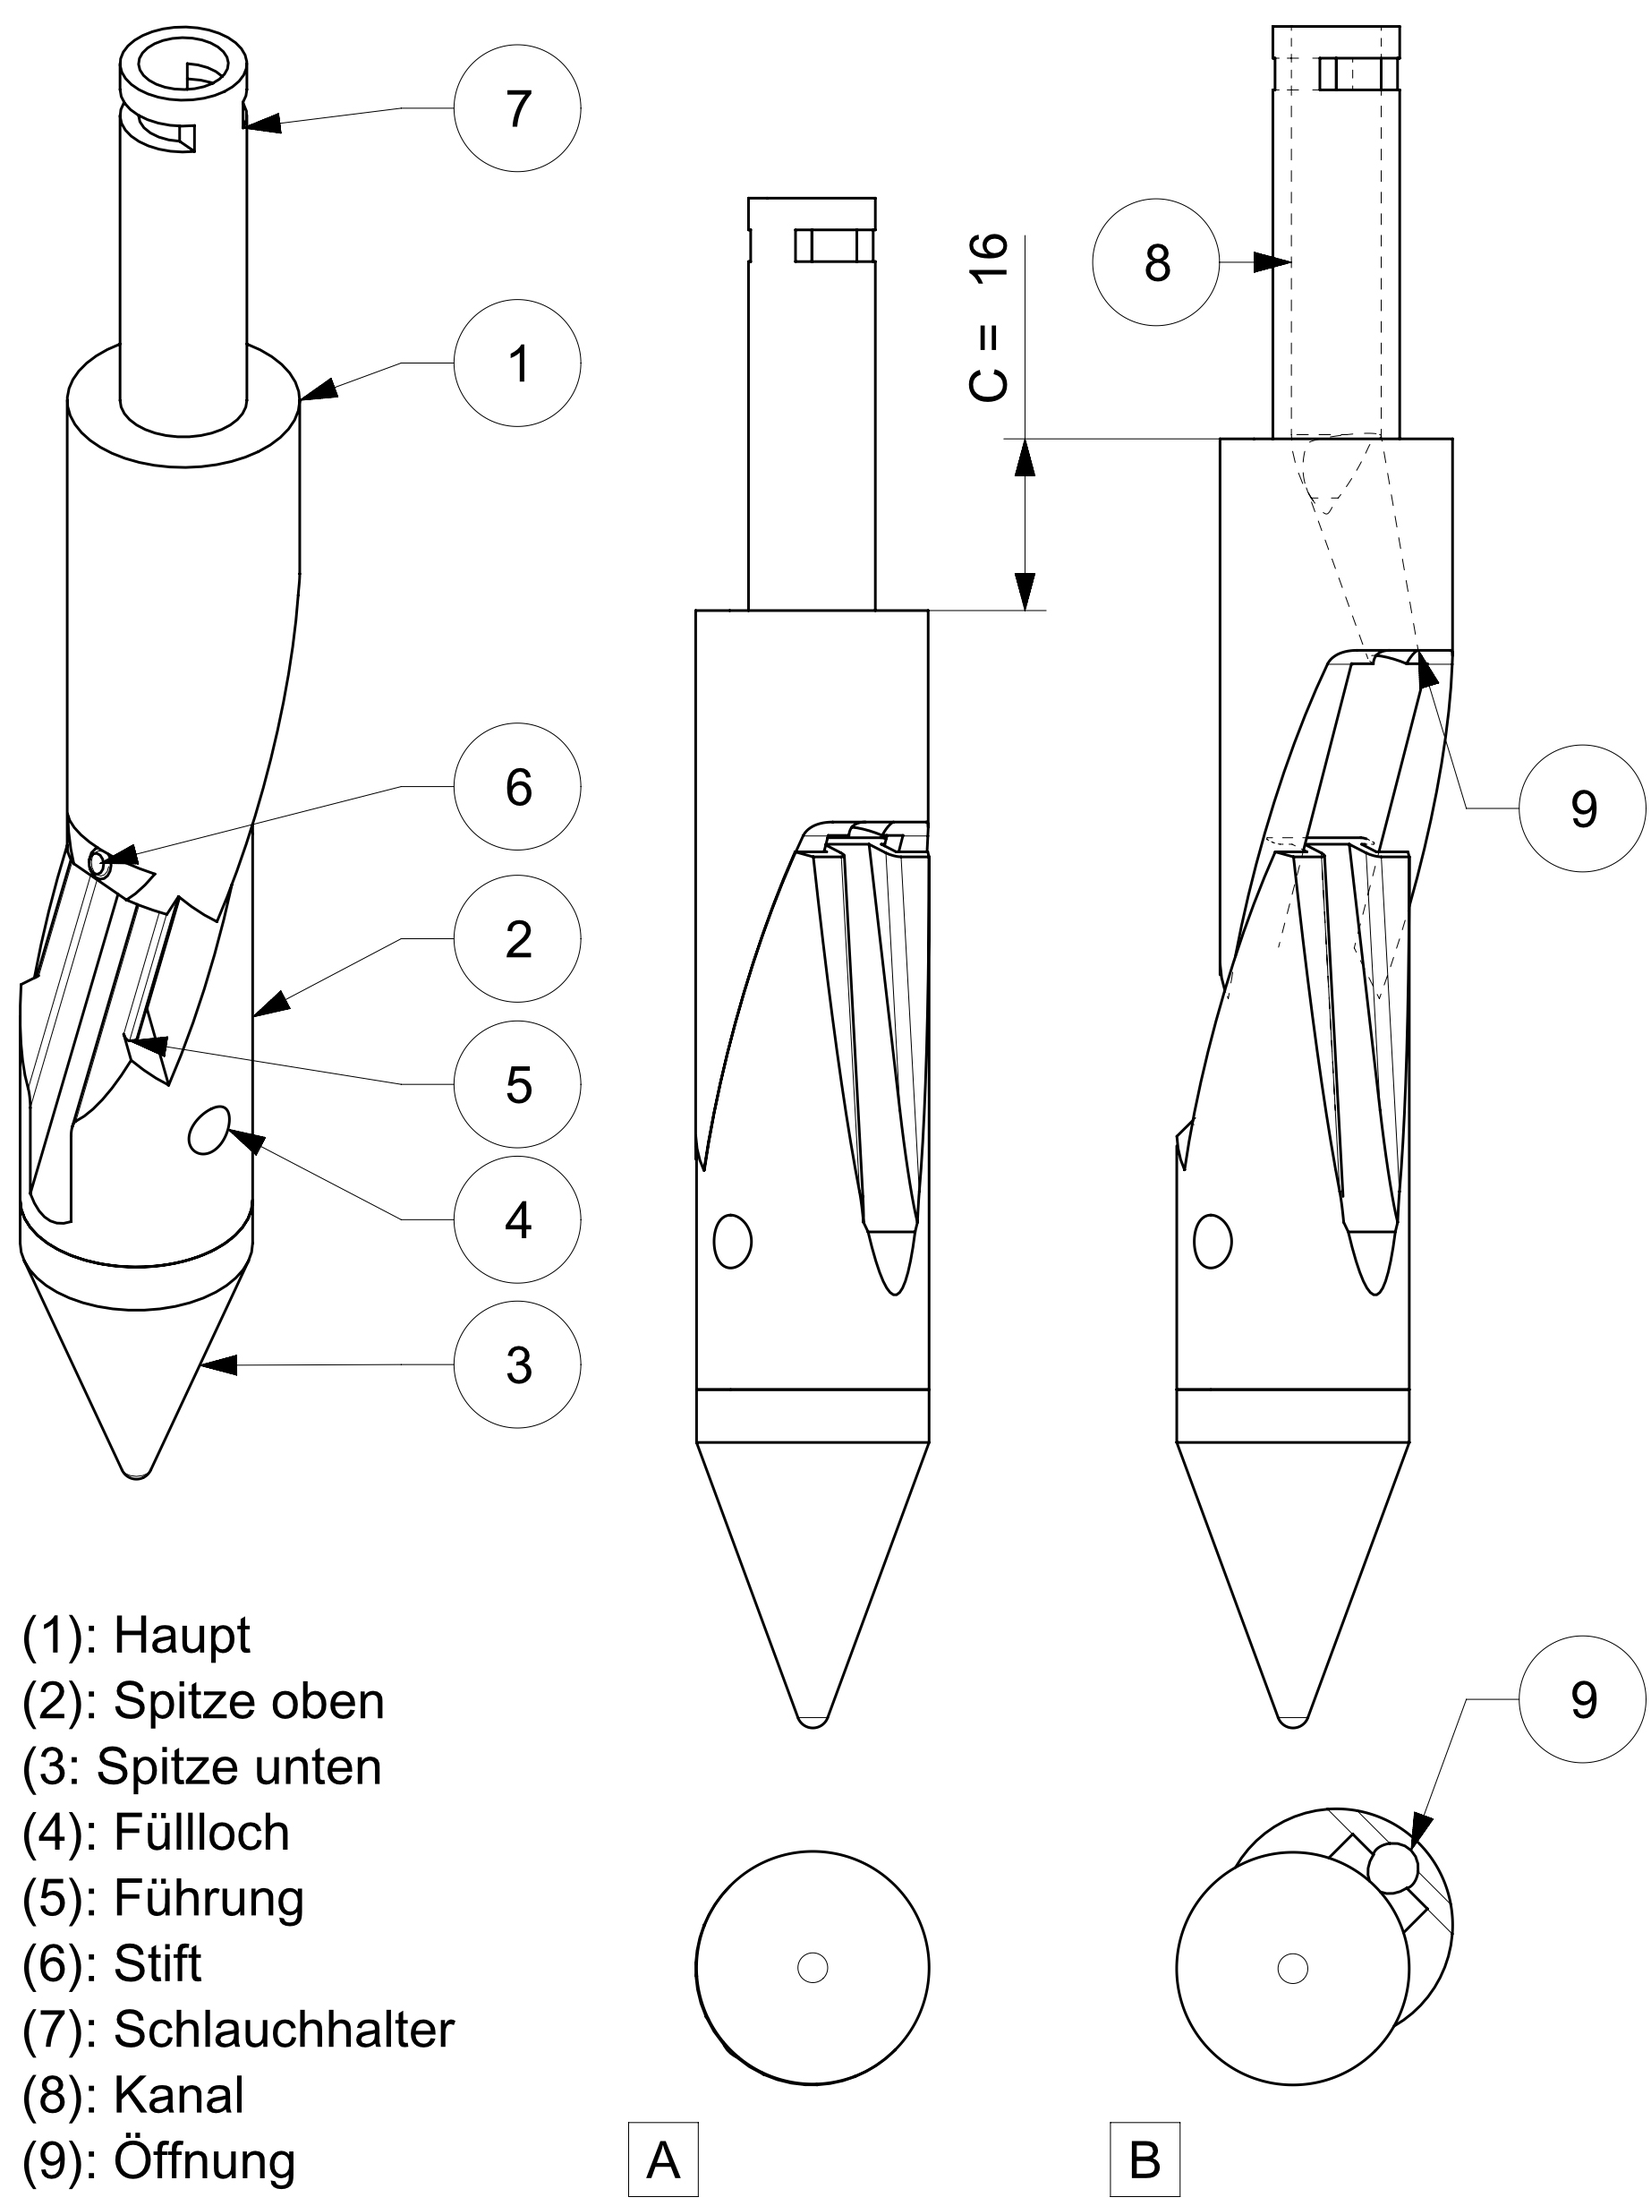
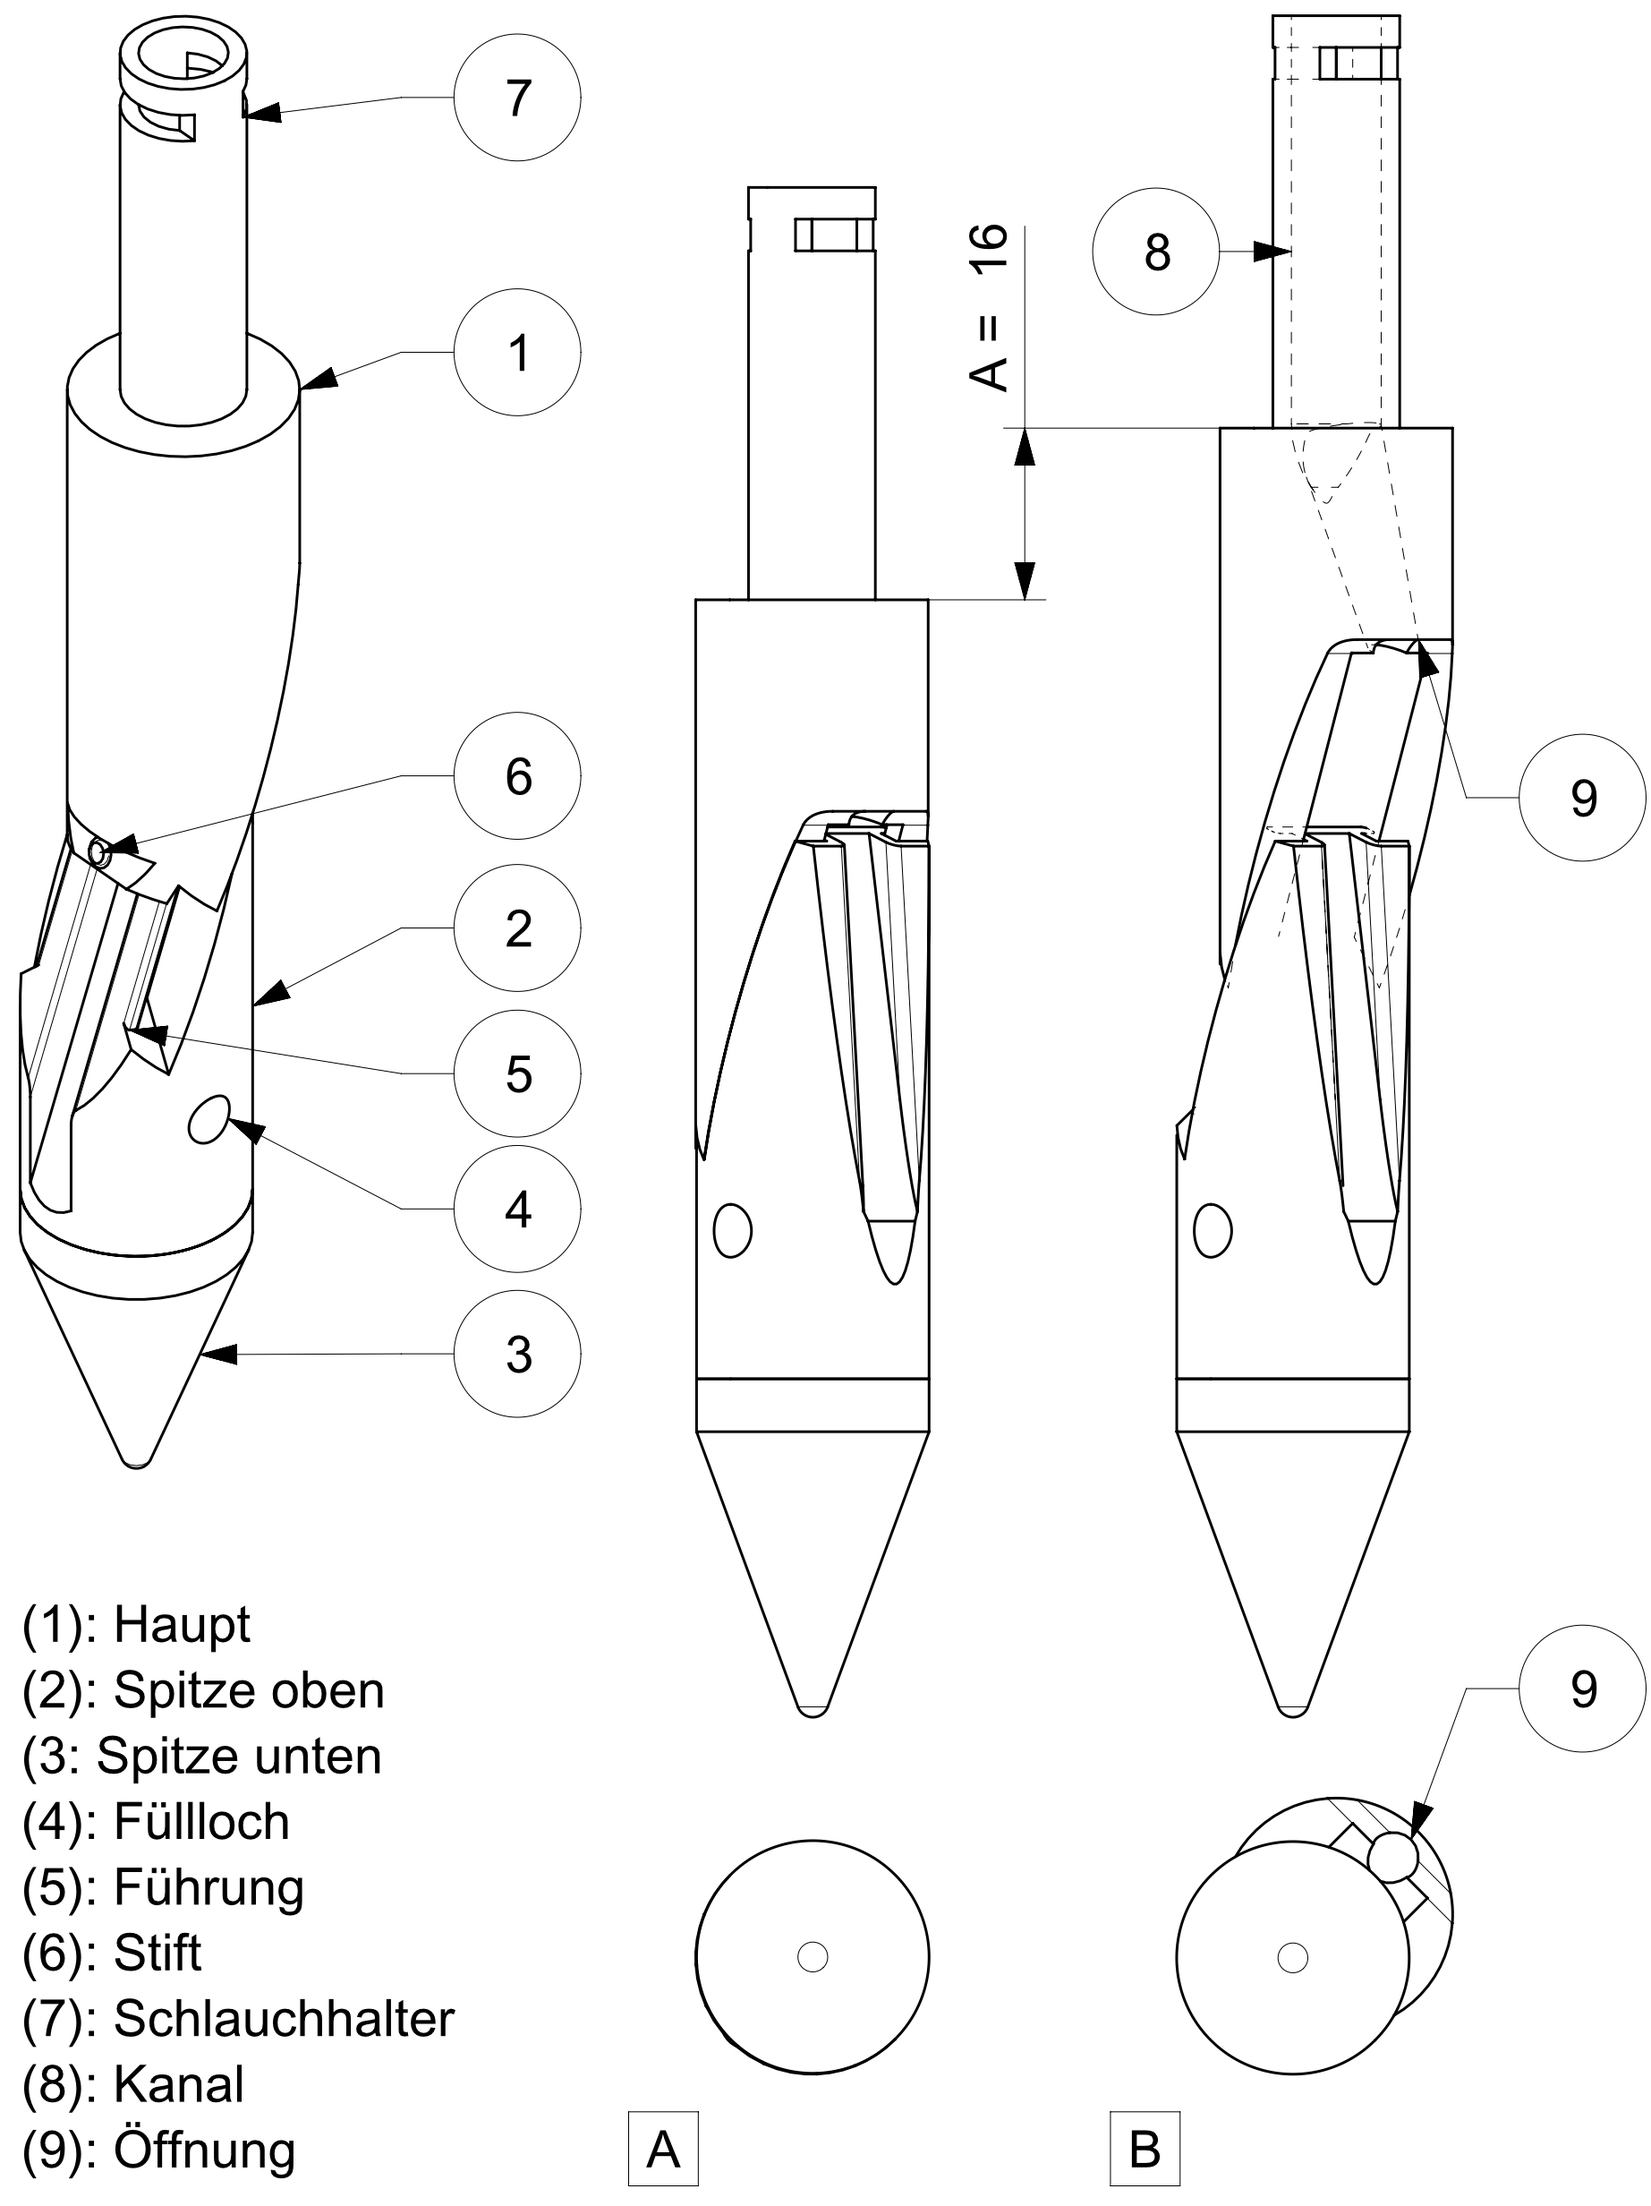
- edited text and pictures of subsection Stechdorn

diff --git a/Kapitel/6_Umsetzung/6.6_Stechdorn.tex b/Kapitel/6_Umsetzung/6.6_Stechdorn.tex
@@ -3,7 +3,7 @@
 \textbf{Aufbau}
 Der Stechdorn hat die Aufgabe, ein Setzloch durch Verdrängung der Topferde auszuheben und anschliessend die fallenden NemaCaps ins Setzloch zu leiten. Dafür wurde auf einen gelochten Stechdorn bewusst verzichtet, da man das Risiko von Verstopfungen nicht eingehen möchte. Mit der realisierten Konstruktion wird dieses Risiko eliminiert. 
 \newline
-Der Stechdorn besteht aus mehreren Teilen, wobei diese über eine lineare Führung (Punkt 5 in Abbildung \ref{fig:details_stechdorn}) verbunden sind. Dabei wird das Haupt (1) an der Verstellmechanik montiert und macht so die Translation der Setzeinheit mit. Sobald der untere Teil (2, 3) in die Topferde einsticht, fährt die Spitze an den oberen Anschlag der Führung (Detail A). Sobald die Setzeinheit nach oben fährt, öffnet sich die Spitze wieder und das NemaCaps kann durch den Kanal (8) ins ausgehobene Setzloch fallen (Detail B). Dabei soll die Bewegung nur durch die Gewichts- sowie Trägheitskraft der Spitze ausgelöst werden.
+Der Stechdorn besteht aus mehreren Teilen, wobei diese über eine lineare Führung (Punkt 5 in Abbildung \ref{fig:details_stechdorn}) verbunden sind. Dabei wird das Haupt (1) an der Verstellmechanik montiert und macht so die Translation der Setzeinheit mit. Sobald der untere Teil (2, 3) in die Topferde einsticht, fährt die Spitze an den oberen Anschlag der Führung (Detail A). Sobald die Setzeinheit nach oben fährt, öffnet sich die Spitze wieder und das NemaCaps kann durch den Kanal (8) ins ausgehobene Setzloch fallen (Detail B). Dabei soll die Bewegung nur durch die Gewichts- sowie Trägheitskraft der Spitze ausgelöst werden. Falls die Spitze zu leicht ist um sich durch die Bewegung zo öffnen, ist in der Spitze ein Hohlraum vorgesehen, welcher mit Bleikugeln gefüllt wird. Dafür ist ein Füllloch (4) vorgesehen, dass mit einer Madenschraube M6 verschlossen wird.
 \newline
 Folgende Überlegungen geben die Lage der linearen Führung vor:
 \begin{itemize}
@@ -11,14 +11,26 @@ Folgende Überlegungen geben die Lage der linearen Führung vor:
 	
 	\item Wiederum muss eine seitliche Öffnung der Spitze soweit geschehen, dass die Öffnung (9) frei über dem Setzloch steht (Detail B) und ein freier Fall des NemaCaps möglich ist.
 	
-	\item Die Verschliessung der Spitze ist in vertikaler Richtung beschränkt durch die Auslegung Spindel. Dabei ist der Abstand C in den Berechnungen mit 15mm angenommen.
+	\item Die Verschliessung der Spitze ist in vertikaler Richtung beschränkt durch die Auslegung Spindel. Dabei ist der Abstand A in den Berechnungen (Siehe Anhang \textbf{XY}) mit 15mm angenommen. Die Umsetzung überschreitet diese Annahme um 1mm, ist jedoch im angenommenen Rahmen.
 \end{itemize}
+
 	\begin{figure}[H]
-	\includegraphics[scale=0.92]{Illustrationen/6-Umsetzung/details_stechdorn.jpg}
+	\includegraphics[scale=1.0]{Illustrationen/6-Umsetzung/details_stechdorn.jpg}
 	\caption{Übersicht des Stechdorns}
 	\label{fig:details_stechdorn}
 	\end{figure}
-
+\textbf{Haupt}
+\newline
+Das Haupt des Stechdorns nimmt neben der linearen Führung der Spitze noch folgende Aufgaben wahr:
+\begin{itemize}
+	\item Es verbindet den Schlauch mit dem Stechdorn. Dafür kann der Schlauch oben eingeführt werden und am Schlauchhalter (Punkt 12 in Abbildung \ref{fig:details_haupt}) mit einem Kabelbinder montiert werden.
+	
+	\item Es lenkt das fallende NemaCap mit dem Kanal (8) zur vorgesehen Öffnung für die Platzierung. In der Schnittansicht A -A ist zu sehen, dass der Kanal kurz vor Austritt einen kegelförmigen Verlauf hat. 
+	
+	\item Mit der Anbringung eines Stiftes (13) wird der untere Anschlag der Führung gewährleistet. 
+		
+	\item Die Montage des Dorns an der Verstellmechanik.
+\end{itemize}
 
 	\begin{figure}[H]
 	\includegraphics[scale=0.62]{Illustrationen/6-Umsetzung/details_haupt.PNG}
@@ -26,10 +38,30 @@ Folgende Überlegungen geben die Lage der linearen Führung vor:
 	\label{fig:details_haupt}
 	\end{figure}
 
+\textbf{Spitze oben}
+\newline
+An der Spitze oben sind folgende konstruktive Überlegungen hervor zu heben:
+\begin{itemize}
+	\item Die lineare Führung ist als breites T-Profil umgesetzt (Detail A in Abbildung \ref{fig:details_spitze_oben}). Dabei ist der Steg 1.8mm dick (Mass E). Als Spielmass zwischen beiden Führungsteilen wird in alle Richtungen 0.25mm verwendet.
+	
+	\item Bei ausgefahrener Spitze beträgt die verbleibende Länge der Führung 11mm (Mass D). Gemäss betreuendem Dozenten (Marco De Angelis) ist das Verhältnis p von Stegdicke zu verbleibender Länge essentiel bei der Realisation von linearen Führungen dieser Art. Ideal ist ein Verhältnis von 8 ... 10 anzustreben. in diesem Fall beträgt das Verhältnis p:
+	
+	\begin{equation}
+	p=\frac{verbleibende Fuehrung}{Stegdicke}=\frac{D}{E}=\frac{11mm}{1.8mm}=6.11
+	\end{equation}
+		
+	Ob ein Verhältnis von 6.1 für eine funktionierende Führung ausreicht, wird die Inbetriebnahme zeigen. Allenfalls müssen diese Parameter angepasst werden.
+	
+	\item Da die Spitze direkt an der Topferde ausgesetzt ist, muss mit Kontakt von Erdpartikel gerechnet werden. Dabei ist die Führung ein sensitiver Teil, deren Funktion bei Kontakt mit Erdpartikeln beeinträchtigt werden kann. Hierfür wurde vorbeugend Massnahmen in der Konstruktion berücksichtigt, um dieses Risiko zu mindern. Ein Auslauf der Führung (11) und zwei Fasen (10) sollen die Sammlung von Erdpartikeln verhindern.
+	\end{itemize}
 	\begin{figure}[H]
-	\includegraphics[scale=0.42]{Illustrationen/6-Umsetzung/details_spitze_oben.PNG}
+	\includegraphics[scale=1.0]{Illustrationen/6-Umsetzung/details_spitze_oben.jpg}
 	\caption{Details Spitze oben}
 	\label{fig:details_spitze_oben}
 	\end{figure}
 
-\textbf{Funktion}
+\textbf{Schlauch}
+\newline
+\textbf{Materialwahl und Fertigungsverfahren}
+\newline
+Die komplexe Geometrie dieser Teile sind ausschlaggebend, dass Rapid Prototyping als Fertigungsverfahren gewählt wird. Durch erhöhten Anforderungen an das Gewicht wird ein Kunststoff (ABS) als Material verwendet. Dabei ist es möglich, dass ein Teil mehrmals gedruckt wird, da das optimale Spielmass iterativ durch zielgerichtetes Ausprobieren gefunden werden muss. 
